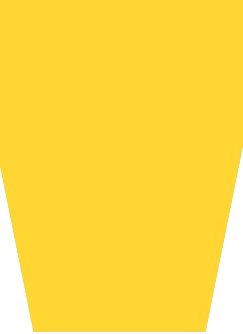
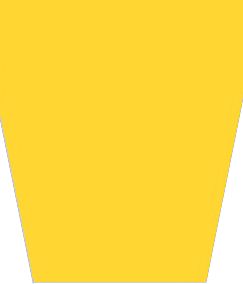
Finalizing content-two

Changed region(s): [[0.1152, 0.9014, 0.8642, 1.0], [0.8642, 0.338, 1.0, 0.9296], [0.0, 0.3944, 0.1152, 0.9014]]

diff --git a/frontend/src/pages/Home.js b/frontend/src/pages/Home.js
@@ -1,8 +1,9 @@
 import "./Home.css";
 import logo from "../images/logoRealiize.png";
-import hashtag from "../images/hashtag.png"
-import gusAndBia from "../images/1.png"
-import yellowContentTwo from "../images/amarelo_content_two.png"
+import hashtag from "../images/hashtag.png";
+import gusAndBia from "../images/1.png";
+import yellowContentTwo from "../images/amarelo_content_two.png";
+import purpleContentTwo from "../images/4.png";
 
 // Components
 import { NavLink, Link } from "react-router-dom";
@@ -28,7 +29,7 @@ const Home = () => {
       <div className="content-one">
         <div className="form-group">
           <div>
-            <img src={hashtag} id="hashtag"/>
+            <img src={hashtag} id="hashtag" />
           </div>
           <div>
             <button>QUERO ALAVANCAR MINHA MARCA!</button>
@@ -36,7 +37,7 @@ const Home = () => {
         </div>
         <div className="form-group">
           <div>
-            <img id="gusAndBia" src={gusAndBia}/>
+            <img id="gusAndBia" src={gusAndBia} />
           </div>
           <div className="yellow-down">
             <div>SOLUÇÃO COMPLETA PARA SUA EMPRESA</div>
@@ -48,13 +49,50 @@ const Home = () => {
       <div className="content-two">
         <div>
           <div id="purple-rectangle"></div>
-          <img src={yellowContentTwo} id="image-yellow-content-two"/>
+          <img src={yellowContentTwo} id="image-yellow-content-two" />
         </div>
-        <div>
-
+        <div className="columns">
+          <div className="column-one">
+            <div className="text-one">DÊ O PRÓXIMO</div>
+            <div className="text-two">PASSO</div>
+            <div className="text-three">
+              A escolha de responder esse formulário, já te diferencia dos
+              concorrentes!
+            </div>
+          </div>
+          <div className="column-two">
+            <img src={purpleContentTwo} className="image-one" />
+          </div>
+          <div className="column-three">
+            <form>
+              <div>
+                <input placeholder="NOME COMPLETO"></input>
+              </div>
+              <div>
+                <input placeholder="TELEFONE"></input>
+              </div>
+              <div>
+                <input placeholder="EMAIL"></input>
+              </div>
+              <div>
+                <input placeholder="EMPRESA"></input>
+              </div>
+              <div>
+                <select></select>
+              </div>
+              <div>
+                <select></select>
+              </div>
+              <button>ENVIAR</button>
+            </form>
+            <div className="text-one">NAS PRÓXIMAS 12h NOSSA EQUIPE ENTRARÁ EM CONTATO COM VOCÊ!</div>
+          </div>
         </div>
+        <div id="purple-rectangle2"></div>
       </div>
-      <div className="content-three"></div>
+      <div className="content-three">
+
+      </div>
       <div className="content-four"></div>
       <div className="content-five"></div>
       <div className="content-six"></div>

diff --git a/frontend/src/pages/Home.css b/frontend/src/pages/Home.css
@@ -40,16 +40,101 @@
   font-style: normal;
 }
 
+/*Start Content-two mobile */
+
 #home #purple-rectangle {
   background-color: #650ba4;
   height: 3vh;
-  margin-top: 20vh;
+  margin-top: 13vh;
+}
+
+#home #purple-rectangle2 {
+  background-color: #650ba4;
+  height: 3vh;
+  margin-top: 5vh;
 }
 
 #home #image-yellow-content-two {
   width: 100vw;
   height: 130vh;
-
   border: 1px solid red;
   margin-left: 0;
 }
+
+#home .content-two .column-one .text-one {
+  margin-top: -120vh;
+  font-size: 9.1vw;
+  border: 1px solid red;
+  font-family: "Montserrat", sans-serif;
+  font-optical-sizing: auto;
+  font-style: normal;
+  font-weight: 800;
+  color: #650ba4;
+}
+
+#home .content-two .column-one .text-two {
+  font-family: "Questrial", sans-serif;
+  font-optical-sizing: auto;
+  font-weight: 00;
+  font-style: normal;
+  font-size: 23.5vw;
+  color: #650ba4;
+  margin-top: -2vh;
+}
+
+#home .content-two .column-one .text-three {
+  color: #650ba4;
+  width: 76vw;
+  margin-left: 12vw;
+  border: 1px solid red;
+  font-size: 4.4vw;
+}
+
+#home .content-two .column-two .image-one {
+  margin-top: 5vh;
+  width: 60vw;
+  height: 20vh;
+  margin-bottom: 5vh;
+}
+
+#home .content-two .column-three form div select,
+#home .content-two .column-three form div input {
+  width: 60vw;
+  height: 5vh;
+  margin-bottom: 0.7vh;
+  border-radius: 8px;
+  text-align: center;
+  border: 1px solid #650ba4; /* Definindo a borda */
+  font-size: 4vw;
+  background-color: #f4dd83;
+  color: #650ba4;
+}
+
+#home .content-two .column-three form div select::placeholder,
+#home .content-two .column-three form div input::placeholder {
+  font-family: "Questrial", sans-serif;
+  color: #650ba4;
+}
+
+#home .content-two .column-three form button {
+  width: 15vh;
+  color: #FFD632;
+  background-color: #650ba4;
+  font-family: "Montserrat", sans-serif;
+  font-size: 4vw;
+  margin-top: 3vh;
+  border-radius: 8px;
+  font-weight: 700;
+}
+
+#home .content-two .column-three .text-one {
+  font-family: "Montserrat", sans-serif;
+  color: #650BA4;
+  width: 60vw;
+  margin-left: 20vw;
+  margin-top: 5vh;
+  font-size: 3.1vw;
+  font-weight: 800;
+}
+
+/*End Content-two mobile */

diff --git a/frontend/public/index.html b/frontend/public/index.html
@@ -22,6 +22,12 @@
       href="https://fonts.googleapis.com/css2?family=Kanit:ital,wght@0,100;0,200;0,300;0,400;0,500;0,600;0,700;0,800;0,900;1,100;1,200;1,300;1,400;1,500;1,600;1,700;1,800;1,900&family=Madimi+One&family=Questrial&display=swap"
       rel="stylesheet"
     />
+    <link rel="preconnect" href="https://fonts.googleapis.com" />
+    <link rel="preconnect" href="https://fonts.gstatic.com" crossorigin />
+    <link
+      href="https://fonts.googleapis.com/css2?family=Montserrat:ital,wght@0,100..900;1,100..900&display=swap"
+      rel="stylesheet"
+    />
     <!--
       manifest.json provides metadata used when your web app is installed on a
       user's mobile device or desktop. See https://developers.google.com/web/fundamentals/web-app-manifest/
